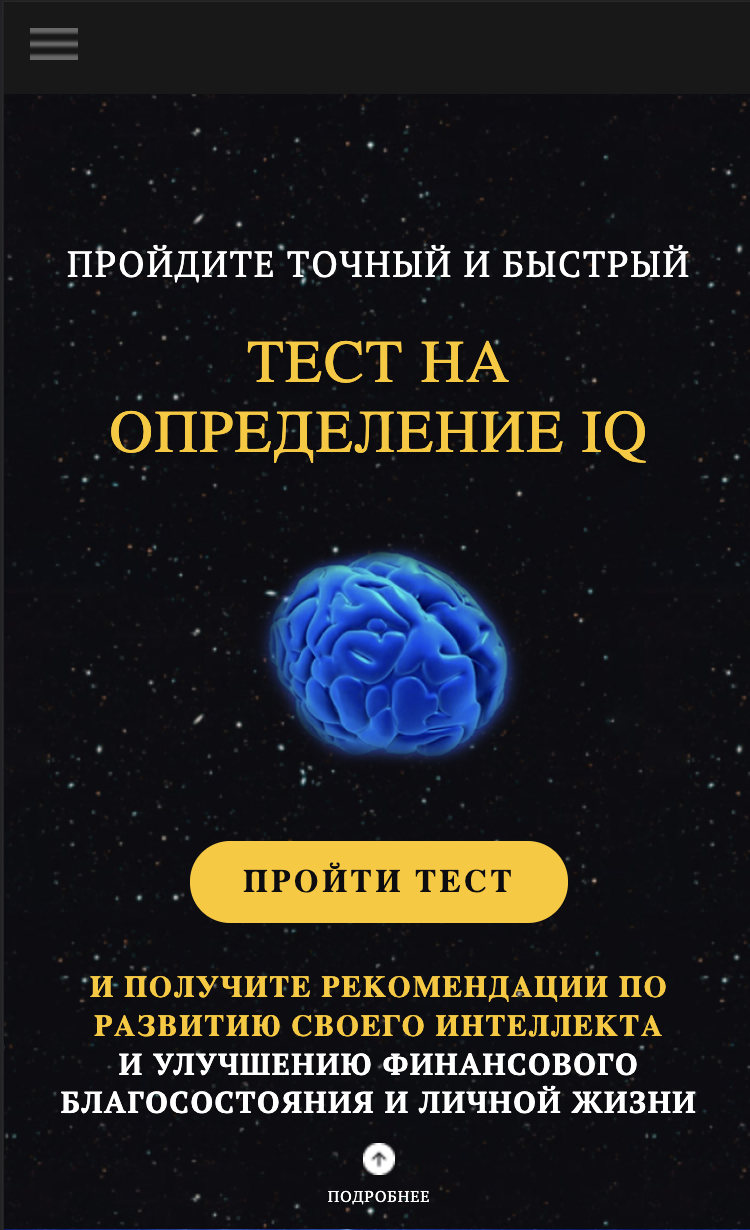
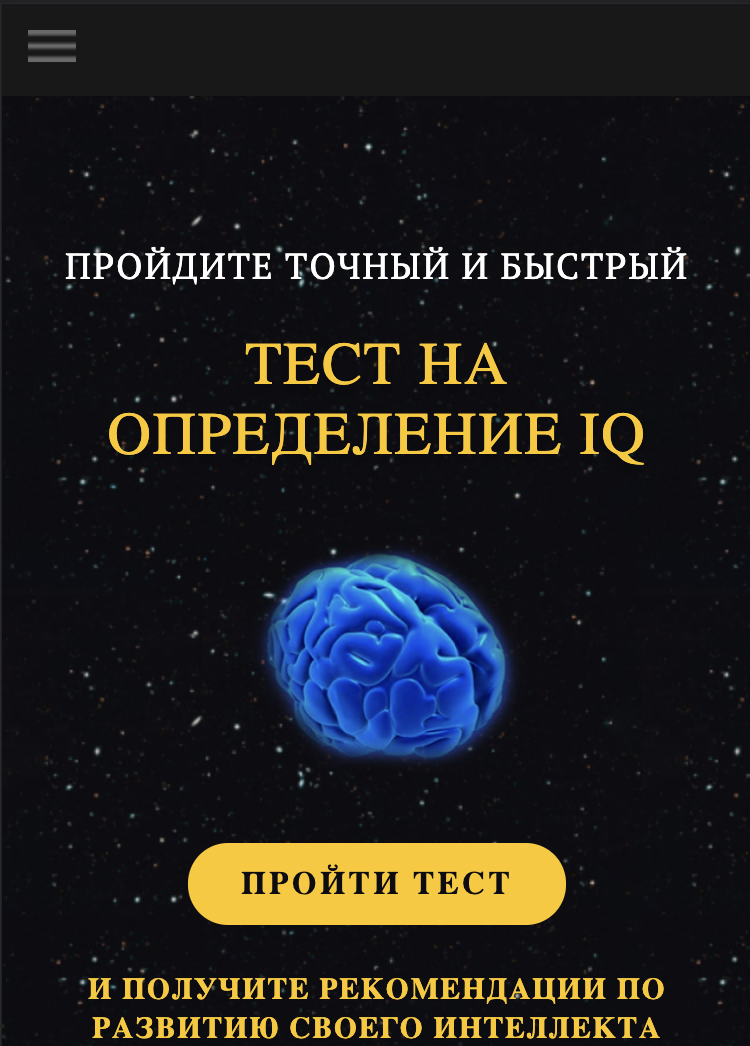
style: add new img

diff --git a/src/Pages/FrontPage/components/ProjectMain/ProjectMain.scss b/src/Pages/FrontPage/components/ProjectMain/ProjectMain.scss
@@ -42,7 +42,8 @@
   &__img {
     margin: 1%;
     width: 100%;
-    min-height: 500px;
+    height: 550px;
+    overflow: hidden;
     position: relative;
     z-index: 10;
   }
@@ -57,7 +58,7 @@
     top: 0;
     z-index: 1000;
     background: black;
-    transform: translateY(75%);
+    transform: translateY(80%);
     transition: all 0.5s ease;
     &:hover {
       transform: translateY(0%);
